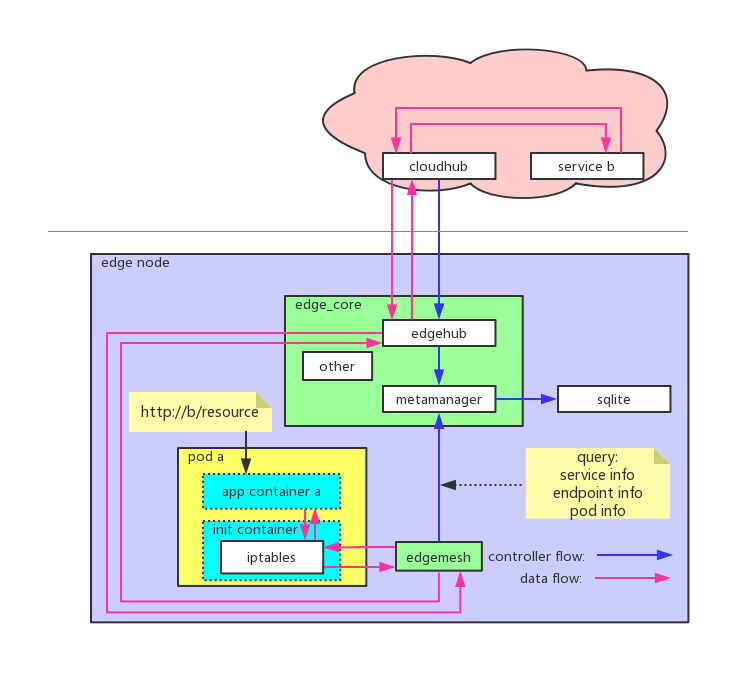
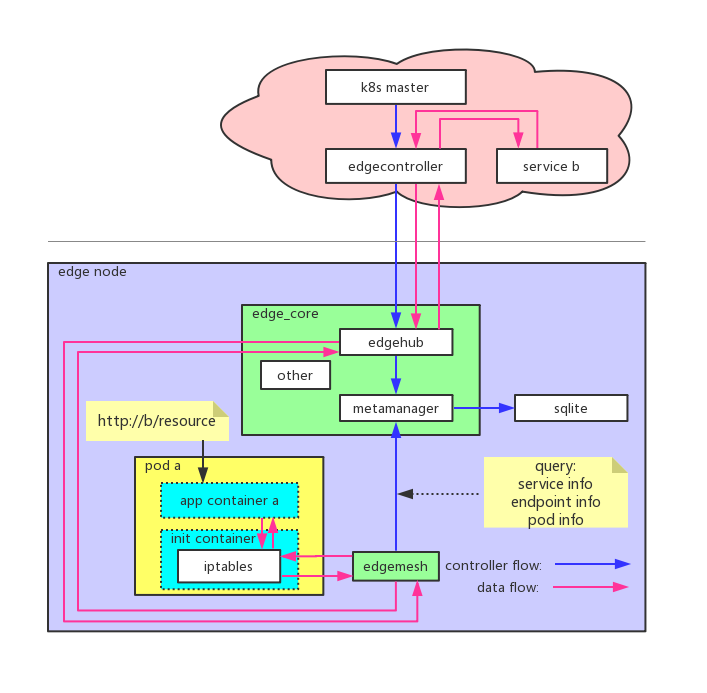
add comment for images and update cloud part add k8s master and edgecontroller

Changed region(s): [[0.0622, 0.0614, 0.9335, 0.9211]]

diff --git a/README.md b/README.md
@@ -7,14 +7,41 @@
 
 ![edge](docs/images/inedge.jpg)
 
+- 在k8s中创建Service，设置label
+- edgecontroller watch到Service的事件，同步到edgehub，经metamanager保存到sqlite
+- 用户应用A请求用户应用B时，流量通过iptables规则全部劫持到edgemesh
+- edgemesh解析应用层协议，调用metamanager查询Service/Endpoint/Pod等相关信息，根据负载均衡等策略选择目的地址，转发请求到同节点的用户边缘应用B
+
 ## 边边协同
 
 ![edge2edge](docs/images/edge2edge.jpg)
+
+- 在k8s中创建Service，设置label
+- edgecontroller watch到Service的事件，同步到edgehub，经metamanager保存到sqlite
+- 用户应用A跨接点请求用户应用B时，流量通过iptables规则全部劫持到edgemesh
+- edgemesh解析应用层协议，调用metamanager查询Service/Endpoint/Pod等相关信息，根据负载均衡等策略选择目的地址，封装请求为```"beehive/pkg/core/model".Message```并转发请求到目的节点的edgemesh
+- 目的节点edgemesh解析```"beehive/pkg/core/model".Message```并根据配置的QPS策略处理请求，转发请求到用户边缘应用B
 
 ## 边云协同
 
 ![edge2cloud](docs/images/edge2cloud.jpg)
 
+- 在k8s中创建Service，设置label
+- edgecontroller watch到Service的事件，同步到edgehub，经metamanager保存到sqlite
+- 用户应用A跨接点请求用户云上服务B时，流量通过iptables规则全部劫持到edgemesh
+- edgemesh解析应用层协议，调用metamanager查询Service/Endpoint/Pod等相关信息，根据负载均衡等策略选择目的地址，封装请求为```"beehive/pkg/core/model".Message```并转发到edgecontroller
+- edgecontroller解析```"beehive/pkg/core/model".Message```根据配置的QPS策略处理请求，转发请求到用户云上服务B
+
 ## edgemesh内部实现
 
 ![edgemesh](docs/images/edgemesh.jpg)
+
+- edgemesh在tcp server之上（tcp server）
+- 从tcp connection中拿到数据后，猜测并最终确认上层协议（resolvers）
+- edgemesh还会启动多种协议的server，用于接收请求然后根据配置实现服务端QPS（transport server）
+- 通过socket方式调用metamanager接口查询Service/Endpoint/Pod等元数据（metamanager的元数据由云上的edgecontroller watch k8s master后同步），根据配置的路由/负载均衡/QPS/熔断等策略处理请求
+- 转发请求：
+    - 目的地址是本节点应用的直接使用对应协议客户端转发到本节点edgemesh的对应协议server，根据服务端QPS策略处理请求
+    - 目的地址是跨节点应用的封装请求为```"beehive/pkg/core/model".Message```格式并通过edgehub转发到目的节点edgemesh的对应协议server，根据服务端QPS策略处理请求
+    - 目的地址是云上服务的封装请求为```"beehive/pkg/core/model".Message```格式并通过edgehub转发到云上的edgecontroller，再转发到目的服务
+- 通过对应请求的客户端转发请求到用户边缘应用
